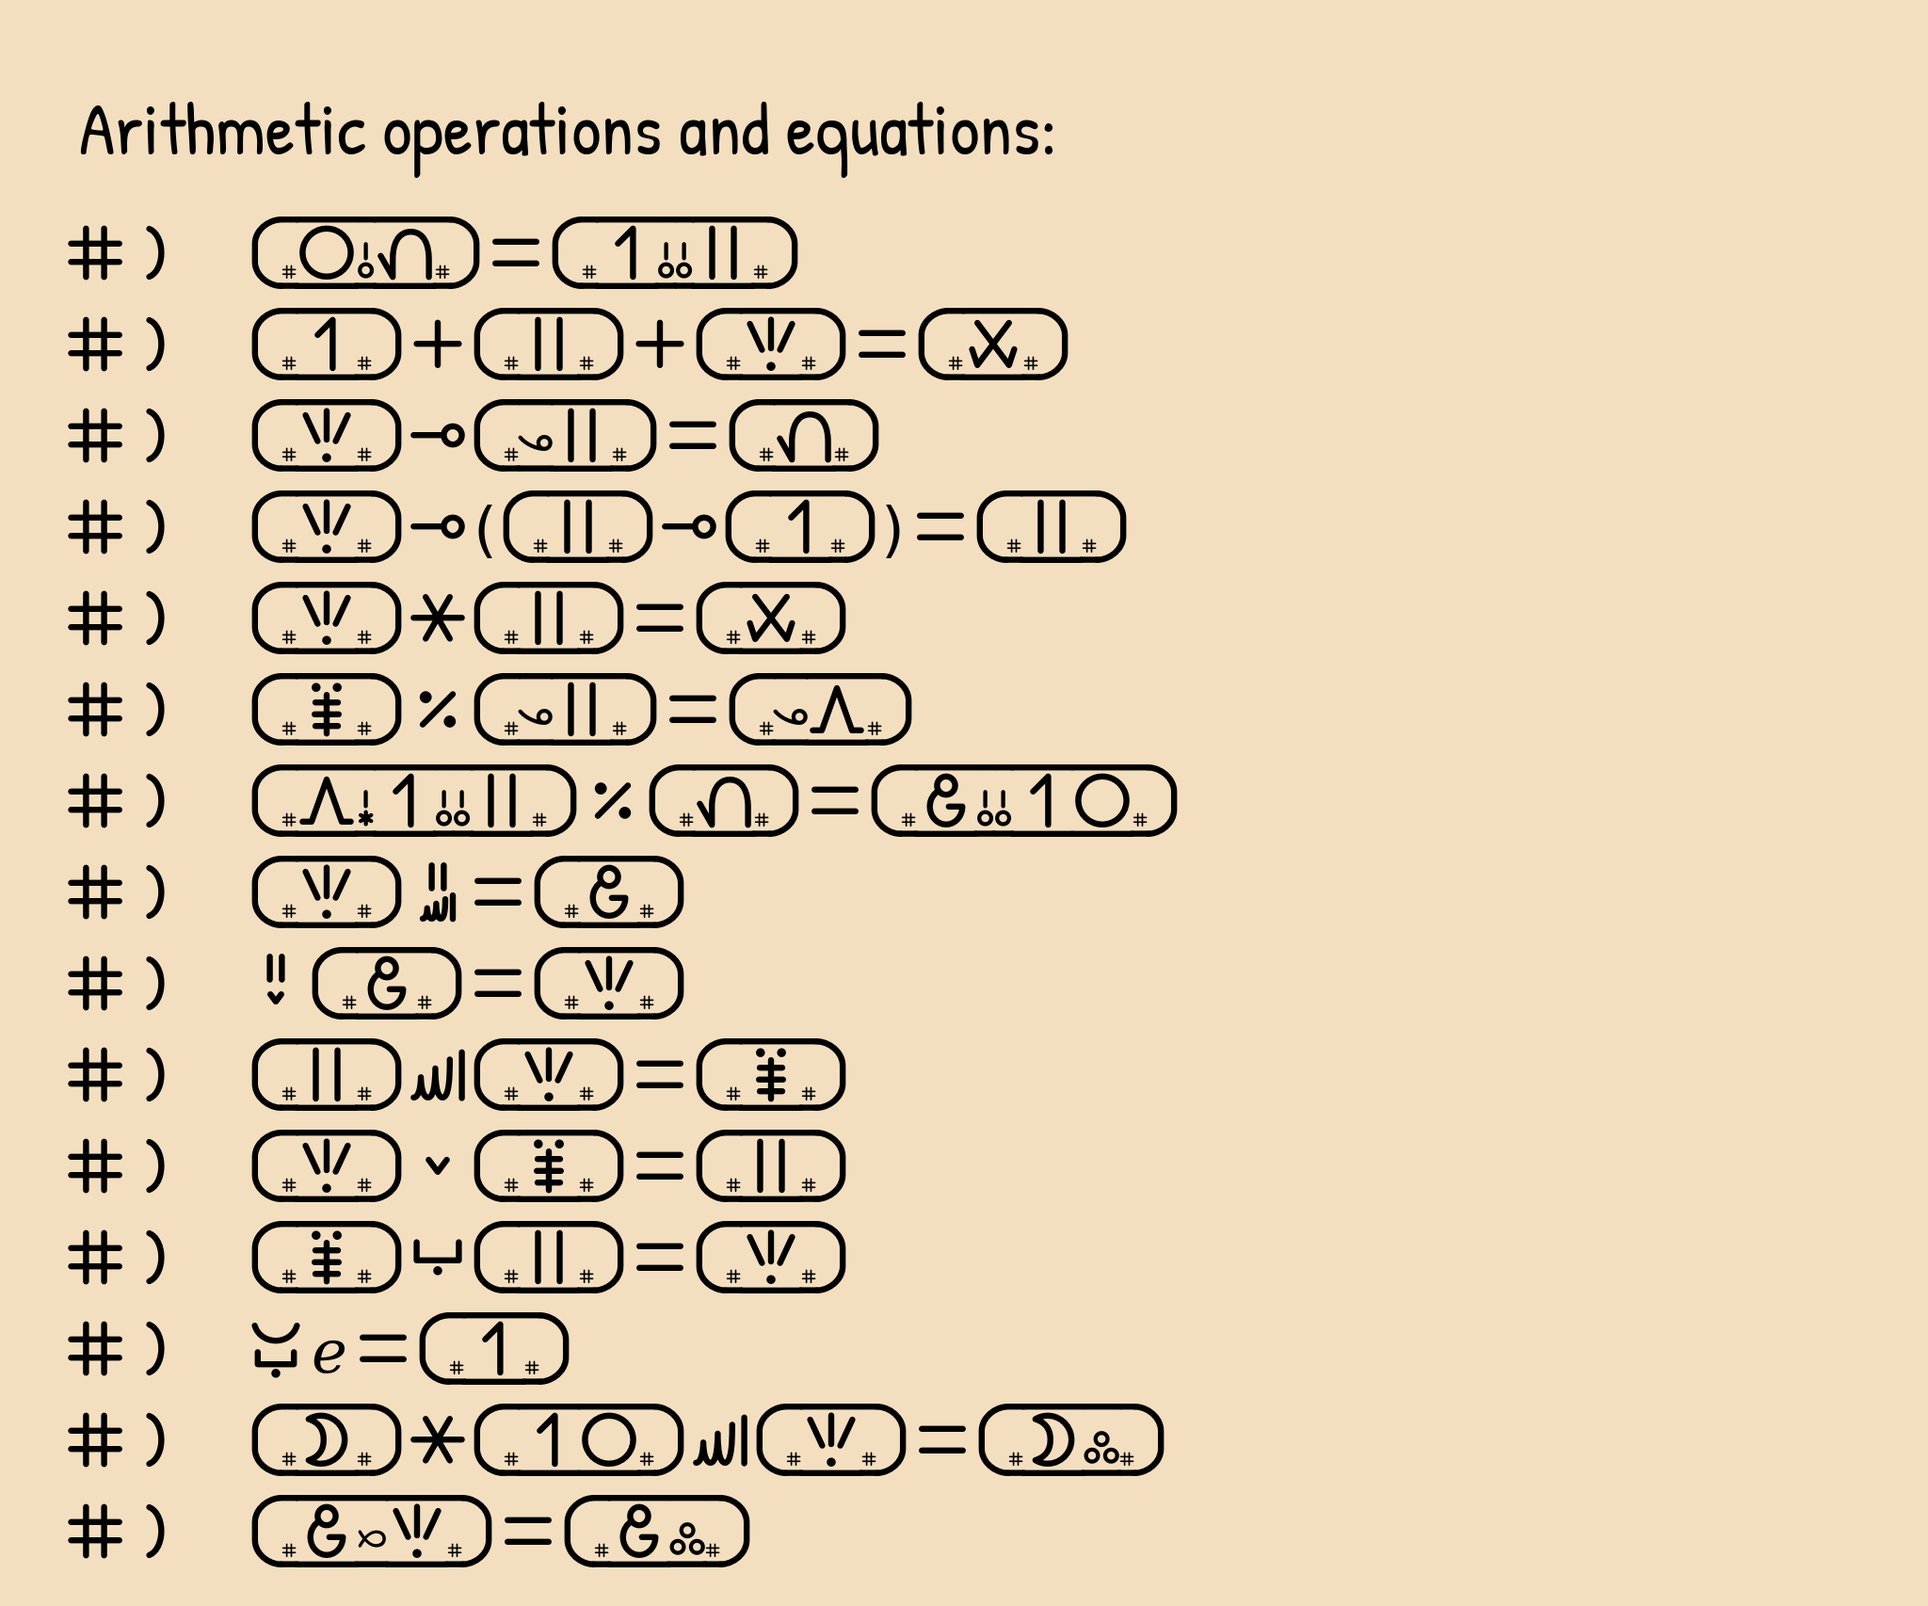
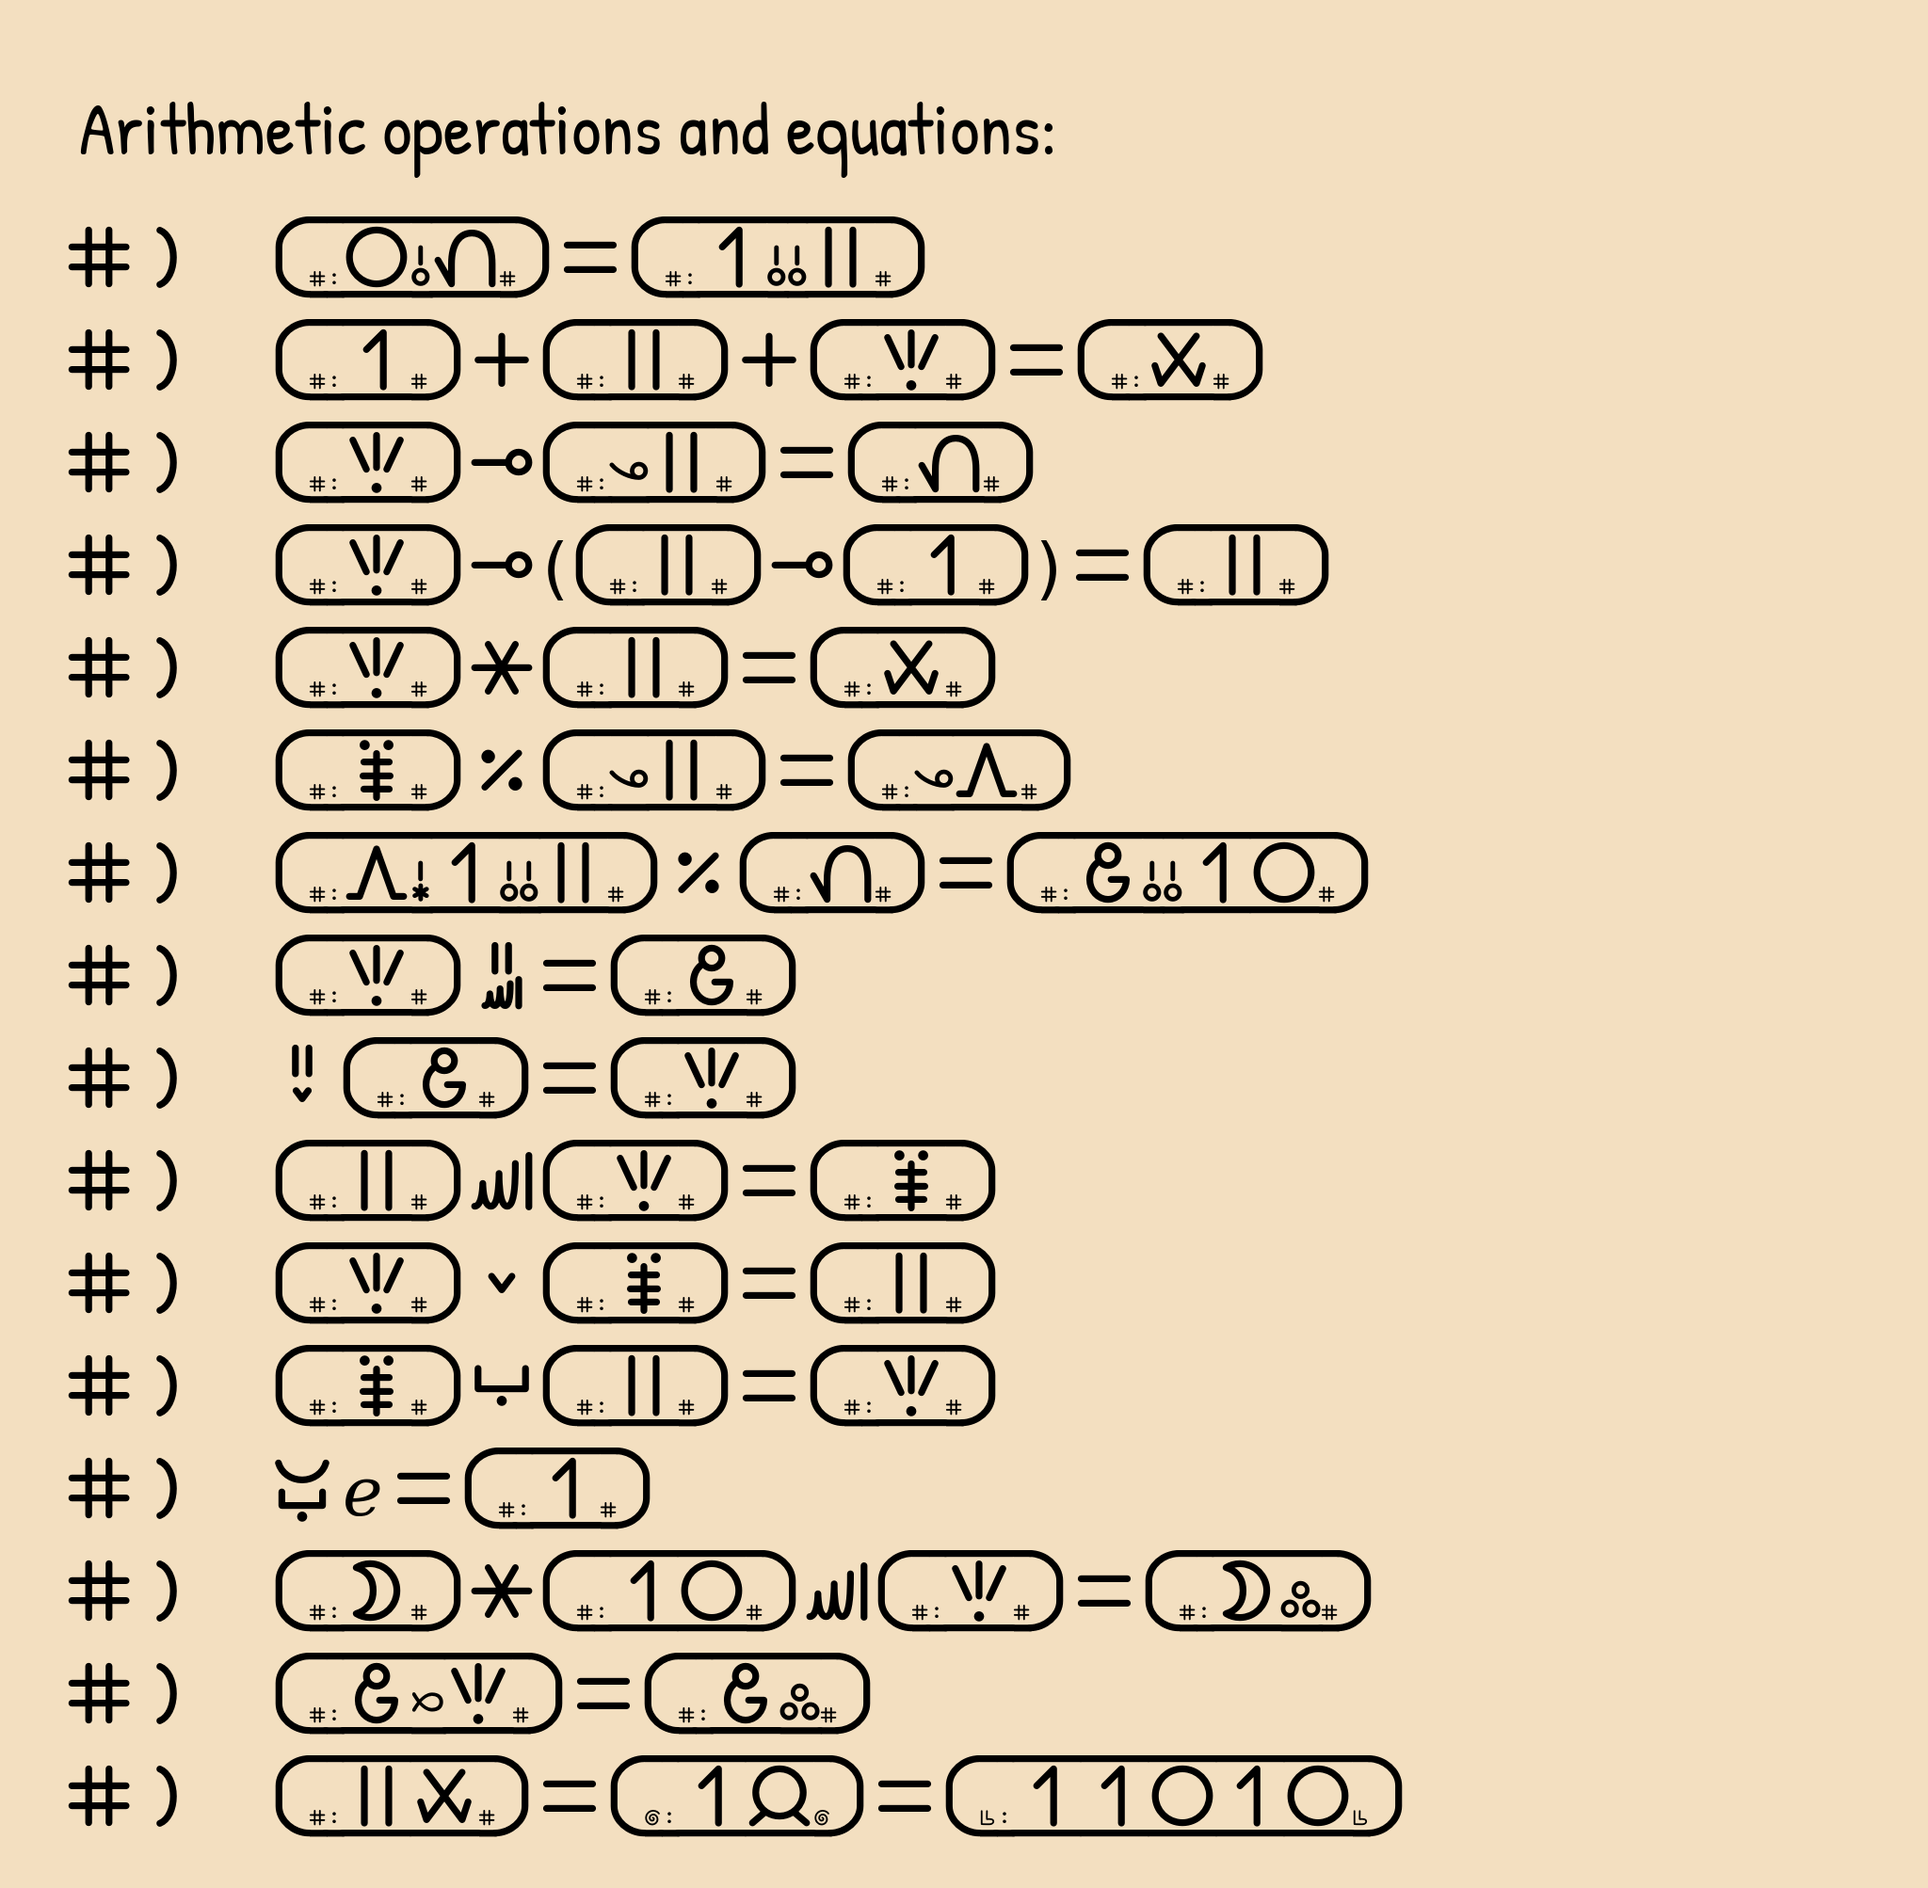
updated docs

Changed region(s): [[0.0312, 0.0621, 0.75, 0.9941], [0.0312, 0.1243, 0.0938, 0.9631]]

diff --git a/docs/index.html b/docs/index.html
@@ -1840,7 +1840,8 @@
         </div>
 
         <div class="help" style="margin-top:10px;">
-          For example, the decimal number <strong>125</strong> has the traditional proper name <strong>Newatulun</strong>. In the alternative notation it is written as <strong>Nanpa Watulun</strong>.
+          For example, the decimal number <strong>125</strong> has the traditional proper name <strong>Newatulun</strong>. In the alternative notation it is written as <strong>Nanpa Watulun</strong>.<br/>
+          If '<strong>Nanpa Tuwan</strong>' could get confused with '<strong>nanpa tu wan</strong>' during communication, then you can always use the nanpa-linja-n strict form of the digits to avoid confusion and say '<strong>Nanpa Tewen</strong>'.
         </div>
 
         <div class="help" style="margin-top:10px;">
@@ -2651,7 +2652,7 @@
        <hr class="miniDivider"/>
 
           <div class="help">&nbsp;</div>
-      <img id="nanpa-linja-n-abbreviated-numeric-cartouche-examples" width="500" src="./images/arithmetic_operations_examples.png?v=10" />
+      <img id="nanpa-linja-n-abbreviated-numeric-cartouche-examples" width="500" src="./images/arithmetic_operations_examples.png?v=11" />
       <div class="help">&nbsp;</div>
       
        <hr class="miniDivider"/>
